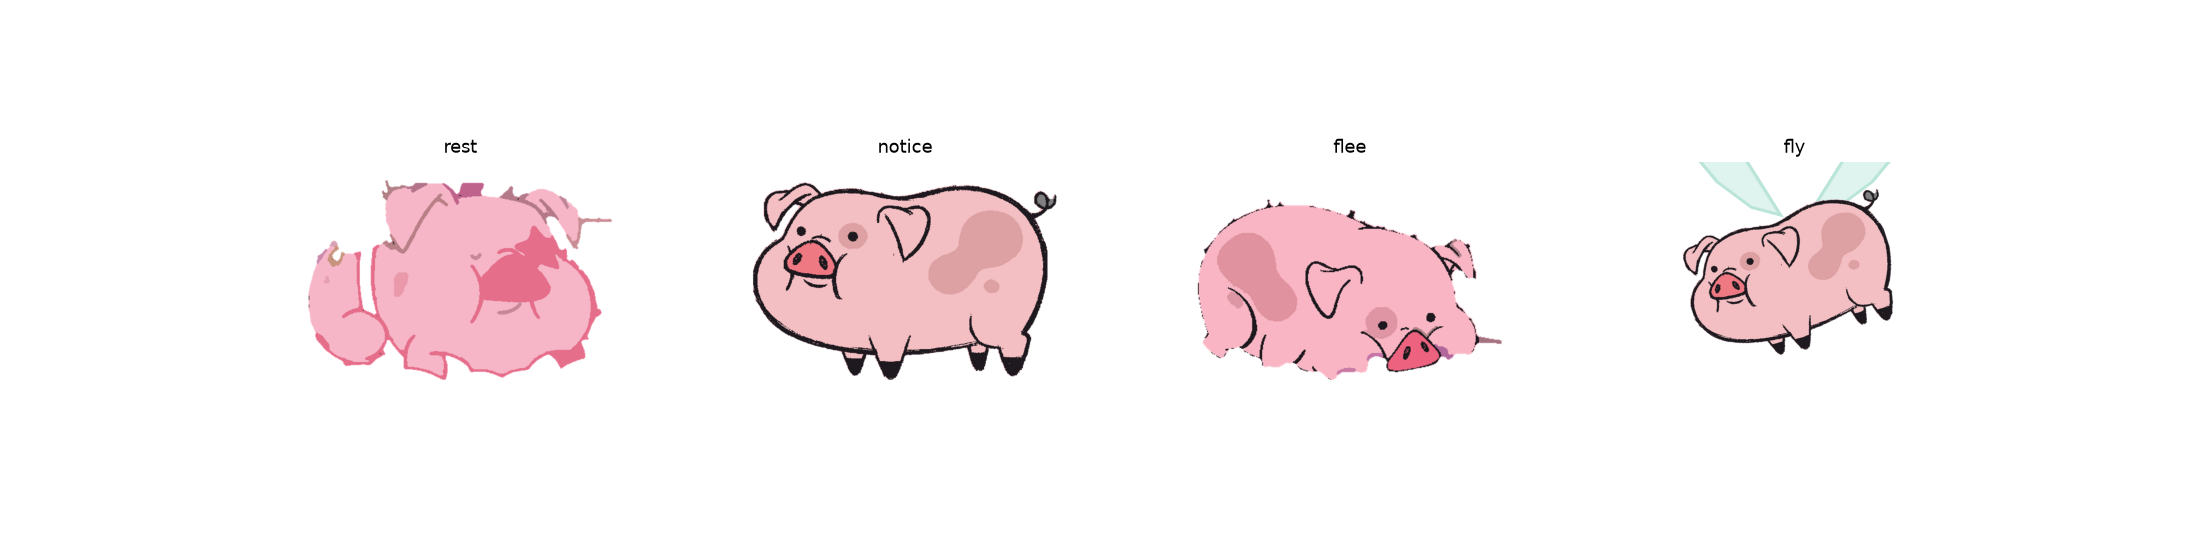
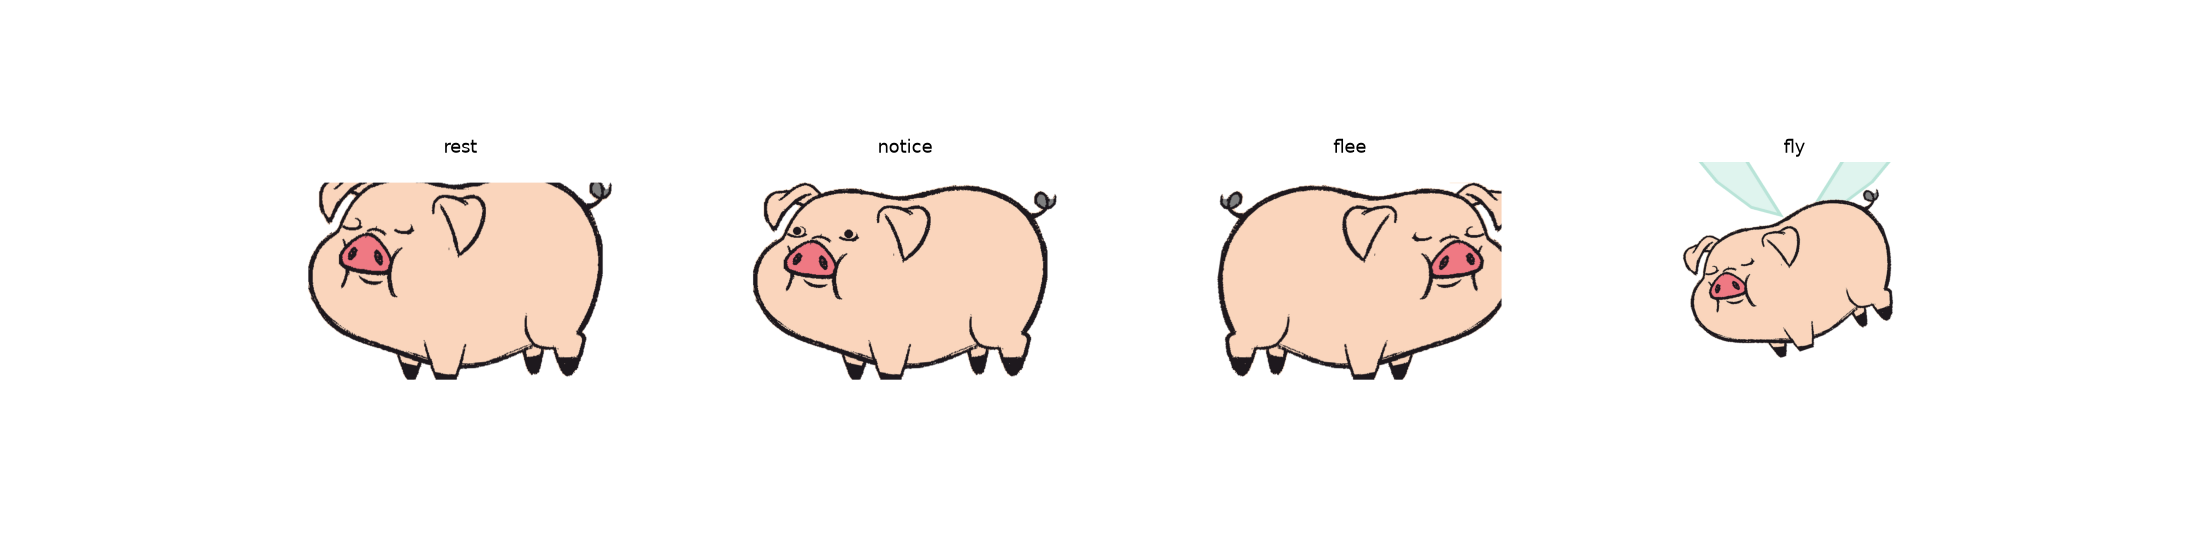
feat(art): pose sheet from ourpig_base — ops drive poses
squat/lean fields + open_eyes op; pig_w5 derives each pose from ourpig_base (rest=squat, notice=open_eyes, flee=lean+mirror, fly=tilt+wings) — one substrate, consistent marks.

diff --git a/pig_derive.py b/pig_derive.py
@@ -71,6 +71,12 @@ def _field_grid(h: int, w: int, ops: list[dict]) -> tuple:
             cy = np.clip((0.45 - yy) / 0.45, 0, 1)
             dy += a * cx * cy
             dx -= a * 0.30 * cx * cy
+        elif op["op"] == "squat":
+            a = float(op["a"])        # top squishes down (resting weight)
+            dy -= a * np.clip((0.80 - yy) / 0.80, 0, 1) ** 1.3
+        elif op["op"] == "lean":
+            a = float(op["a"])        # forward shear, stronger at top
+            dx -= a * np.clip((0.85 - yy) / 0.85, 0, 1)
     return dy, dx
 
 
@@ -156,6 +162,17 @@ def derive(base_path: Path, ops: list[dict]) -> dict:
             for ey, ex in EYES:
                 _erase(st, ey, ex, 0.022)
                 _draw_lid(st, ey, ex, 0.034, 0.034)
+        elif op["op"] == "open_eyes":
+            for ey, ex in EYES:
+                _erase(st, ey, ex, 0.024)
+            h, w = st.shape
+            im = Image.fromarray(np.clip(st, 0, 255).astype(np.uint8))
+            d = ImageDraw.Draw(im)
+            r = 0.020 * h
+            for ey, ex in EYES:
+                d.ellipse([(ex * w - r, ey * h - r),
+                           (ex * w + r, ey * h + r)], fill=255)
+            np.copyto(st, np.asarray(im))
         elif op["op"] == "respot":
             s = float(op.get("s", 1.0))
             ddx = float(op.get("dx", 0.0)); ddy = float(op.get("dy", 0.0))
@@ -216,7 +233,8 @@ if __name__ == "__main__":
                 op["rgb"] = vals
             else:
                 keys = {"belly_droop": ["a"], "jowl": ["a"],
-                        "ear_droop": ["a"], "respot": ["s", "dx", "dy"]}
+                        "ear_droop": ["a"], "squat": ["a"], "lean": ["a"],
+                        "respot": ["s", "dx", "dy"]}
                 for k, vv in zip(keys.get(name, []), vals):
                     op[k] = vv
             ops.append(op)

diff --git a/pig_w5.py b/pig_w5.py
@@ -37,11 +37,17 @@ import matplotlib.pyplot as plt
 import numpy as np
 from PIL import Image, ImageDraw
 
+import pig_derive as pd
 import trace_linework as tl
 
 CANON = Path(__file__).parent / "canon"
-POSE_TRACE = {"rest": "trace_rest", "notice": "trace_profile",
-              "flee": "trace_walk", "fly": "trace_profile"}
+BASE_SPEC = "ourpig_base"
+# per-pose derivation ops on the base spec (pig_derive vocabulary)
+POSE_OPS = {"rest": [{"op": "squat", "a": 0.06}],
+            "notice": [{"op": "open_eyes"}],
+            "flee": [{"op": "lean", "a": 0.08}],
+            "fly": []}
+POSE_TRACE = {p: BASE_SPEC for p in ("rest", "notice", "flee", "fly")}
 WING = (223, 244, 238, 255)      # mint — G-dominant (pig is R-dominant)
 WING_EC = (185, 228, 216, 255)
 _SPECS: dict = {}
@@ -76,7 +82,9 @@ def render_pose(pose: str = "rest", facing: int = 1, tilt: float = 0.0,
                 trace_dir: Path | None = None) -> Image.Image:
     """Render a pose from its trace spec. All warps apply to the whole
     composite (sil+linework+fills together) — marks stay consistent."""
-    spec = _spec(POSE_TRACE[pose])
+    base = CANON / f"{BASE_SPEC}.json"
+    ops = POSE_OPS.get(pose, [])
+    spec = (_spec(POSE_TRACE[pose]) if not ops else pd.derive(base, ops))
     pig = tl.render(spec)                          # source-res RGBA
     if squash != 1.0:                              # squash = height scale
         pig = pig.resize((pig.width, max(1, int(pig.height * squash))),
